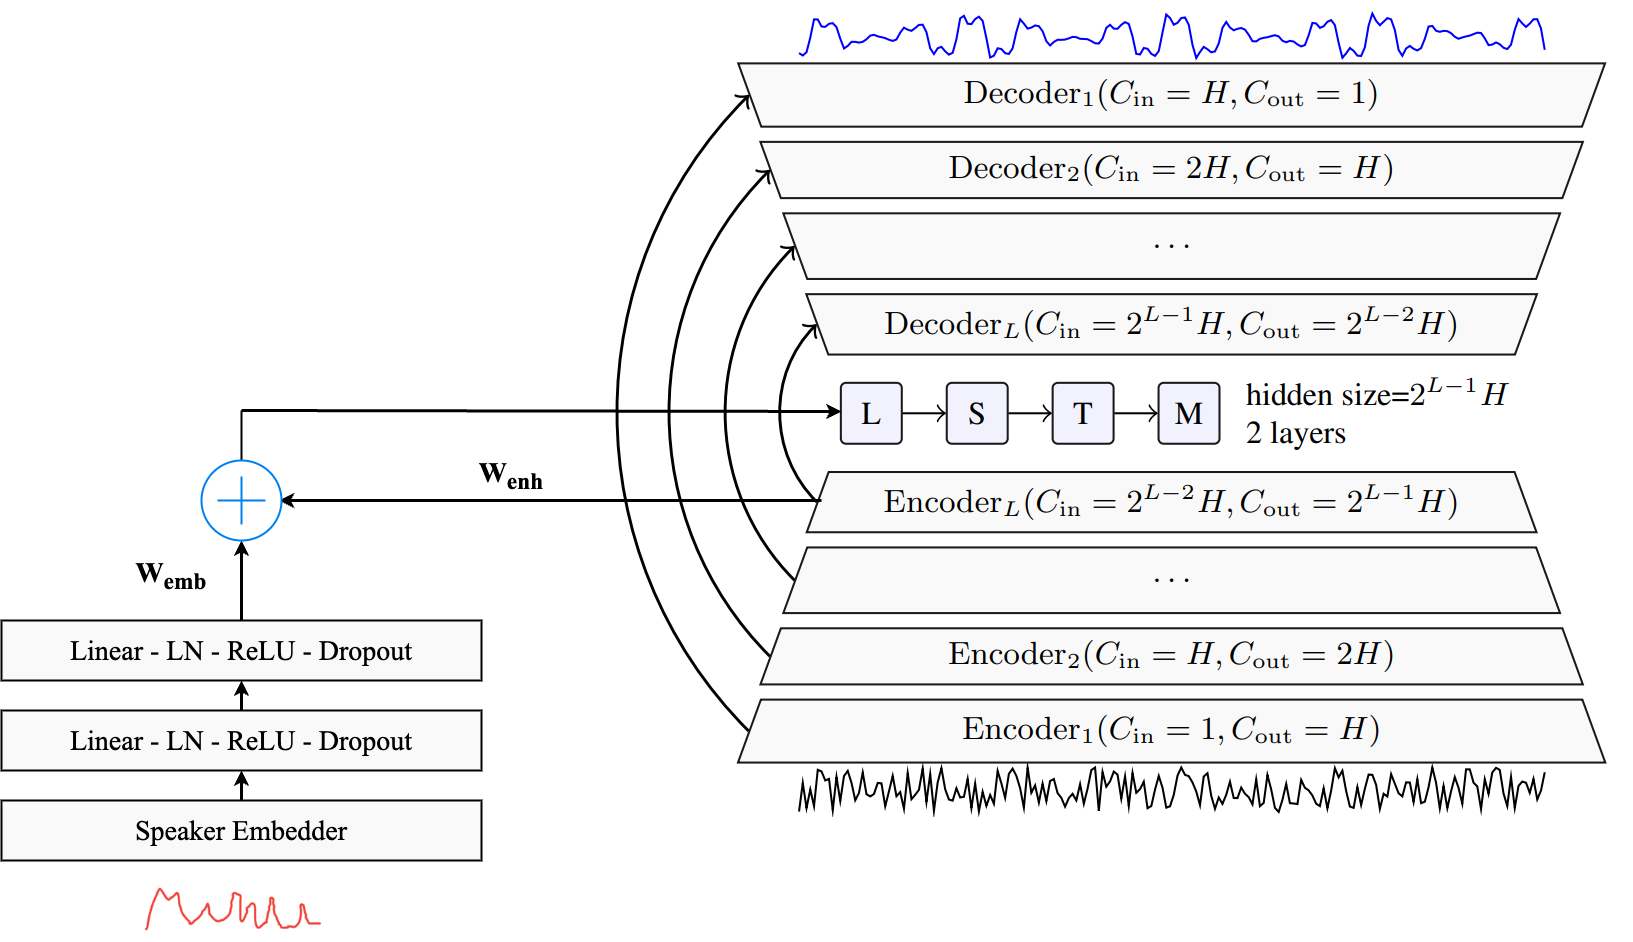
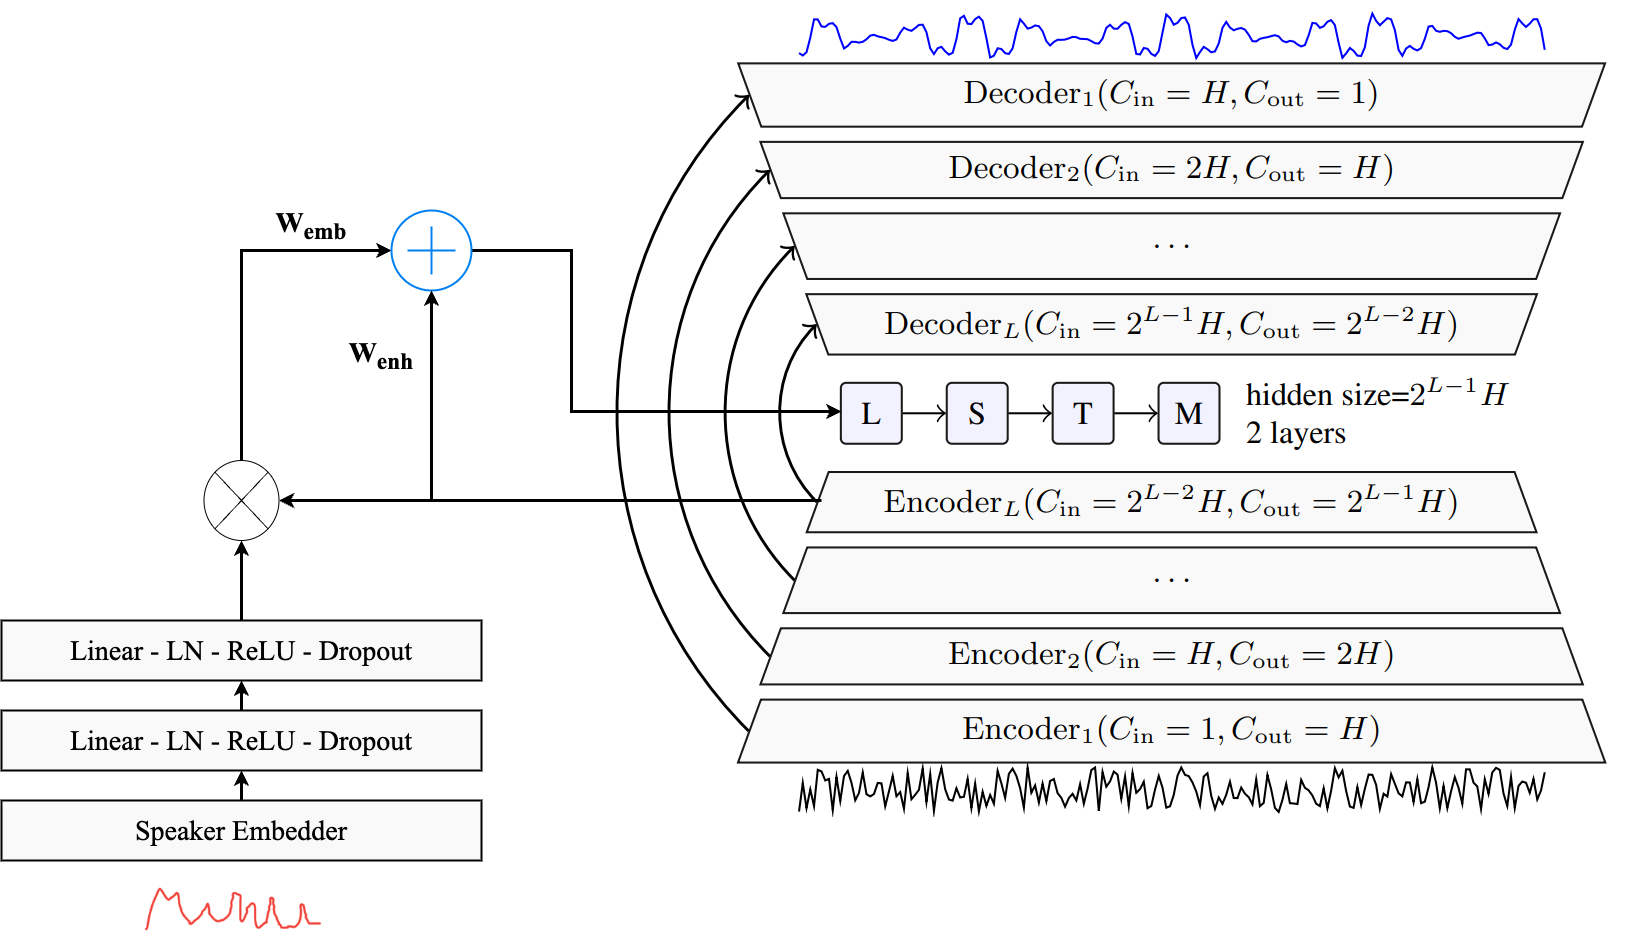
modified denoisr architecture photo and explanation

diff --git a/document/chapters/abstract.tex b/document/chapters/abstract.tex
@@ -2,7 +2,7 @@
 
 Speech Enhancement (SE) has undergone significant advancements in recent years, moving from traditional algorithmic methods to more advanced deep learning-based models. These deep learning models have greatly improved speech quality and intelligibility.  A major development in SE is personalized speech enhancement (PSE),  where models are trained to enhance the speech of specific speakers. This development was evident in the DNS Challenge 2023, where the top-performing models were personalized \cite{dubey2023}. Our goal is to further enhance the challenge by introducing real-time constraints, which will impose additional limitations on the model's architecture and size.
 
-In this work, we explore various models and architectures in SE. We propose two models: the Personalized Fast FullSubNet (PFFSN) and the Personalized Denoiser (PDenoiser). Both models build on established SE architectures. We extend these models by adding personalization support. PFFSN, an adaptation of FFSN \cite{hao2023fast}, uses a subband approach to classify and amplify the subbands where the targeted speaker's voice resides. PDenoiser, an adaptation of Denoiser \cite{defossez2020}, suppresses both stationary and non-stationary noises as well as non-primary speakers, all while operating in the time domain. Our experiments demonstrate that PFFSN can compete with state-of-the-art models in terms of speech quality and intelligibility, as evidenced by its performance in the DNS Challenge.
+In this work, we explore various models and architectures in SE. We propose two models: the Personalized Fast FullSubNet (PFFSN) and the Personalized Denoiser (PDenoiser). Both models build on established SE architectures. We extend these models by adding personalization support. PFFSN, an adaptation of FFSN \cite{hao2023fast}, uses a subband approach to classify and amplify the subbands where the targeted speaker's voice resides. PDenoiser, an adaptation of Denoiser \cite{defossez2020}, suppresses both stationary and non-stationary noises as well as non-primary speakers, all while operating in the time domain. Our experiments demonstrate that our models can compete with state-of-the-art models in terms of speech quality and intelligibility, as evidenced by its performance in the DNS Challenge.
 
 % PFFSN is a lightweight model that uses a Fast Fourier Transform (FFT) to extract features from the input speech signal. The extracted features are then passed to a small neural network that enhances the speech signal. PDenoiser is a personalized speech enhancement model that consists of two major modules: a speaker embedding module and a denoising module. The speaker embedding module extracts speaker-specific features from the input speech signal, while the denoising module enhances the speech signal based on the extracted speaker features.
 

diff --git a/document/chapters/models/progress/experiments/pdenoiser.tex b/document/chapters/models/progress/experiments/pdenoiser.tex
@@ -20,7 +20,7 @@ These speaker embeddings are then processed through a block, repeated twice, com
 This block serves to enhance the dimensionality of the speaker embeddings to 768.
 
 \subsection{Denoising Module}
-The denoising module employs a standard Denoiser model. The output from the last encoder layer is scaled by a factor of $W_{enh}$  set to 0.999, and then combined with the output from the speaker embedding module, scaled by $W_{emb}$ which is set to 0.001.
+The denoising module employs a standard Denoiser model. The output of encoder is reweighted by embedding module output. To ease gradient flow, a weighted residual connection is added from the encoder output. The weighted residual connection forms a convex linear combination with parameter  $W_{enh}=0.999$.
 
 \subsection{Experimental Setup}
 We trained the PDenoiser model on the training set of our dataset for 12 epochs with a batch size of 32 per GPU. We trained the model using Kaggle's 2 NVIDIA Tesla T4 GPUs.
